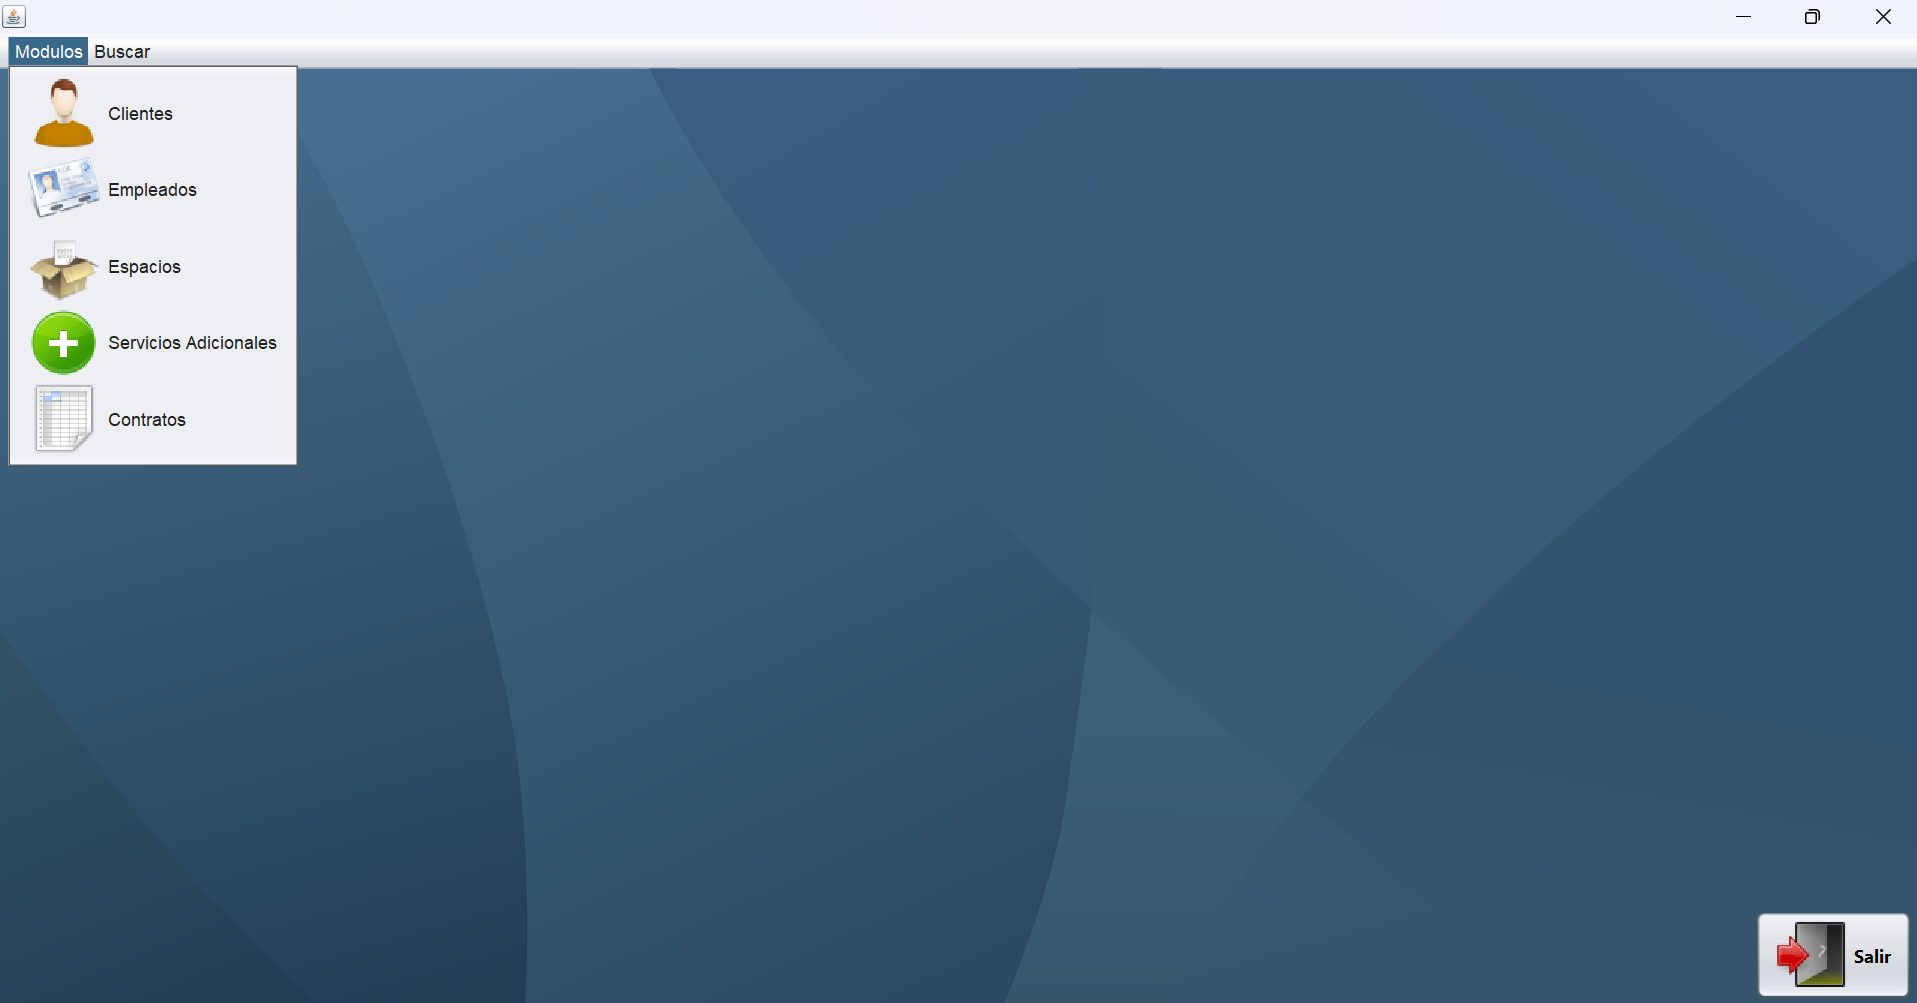
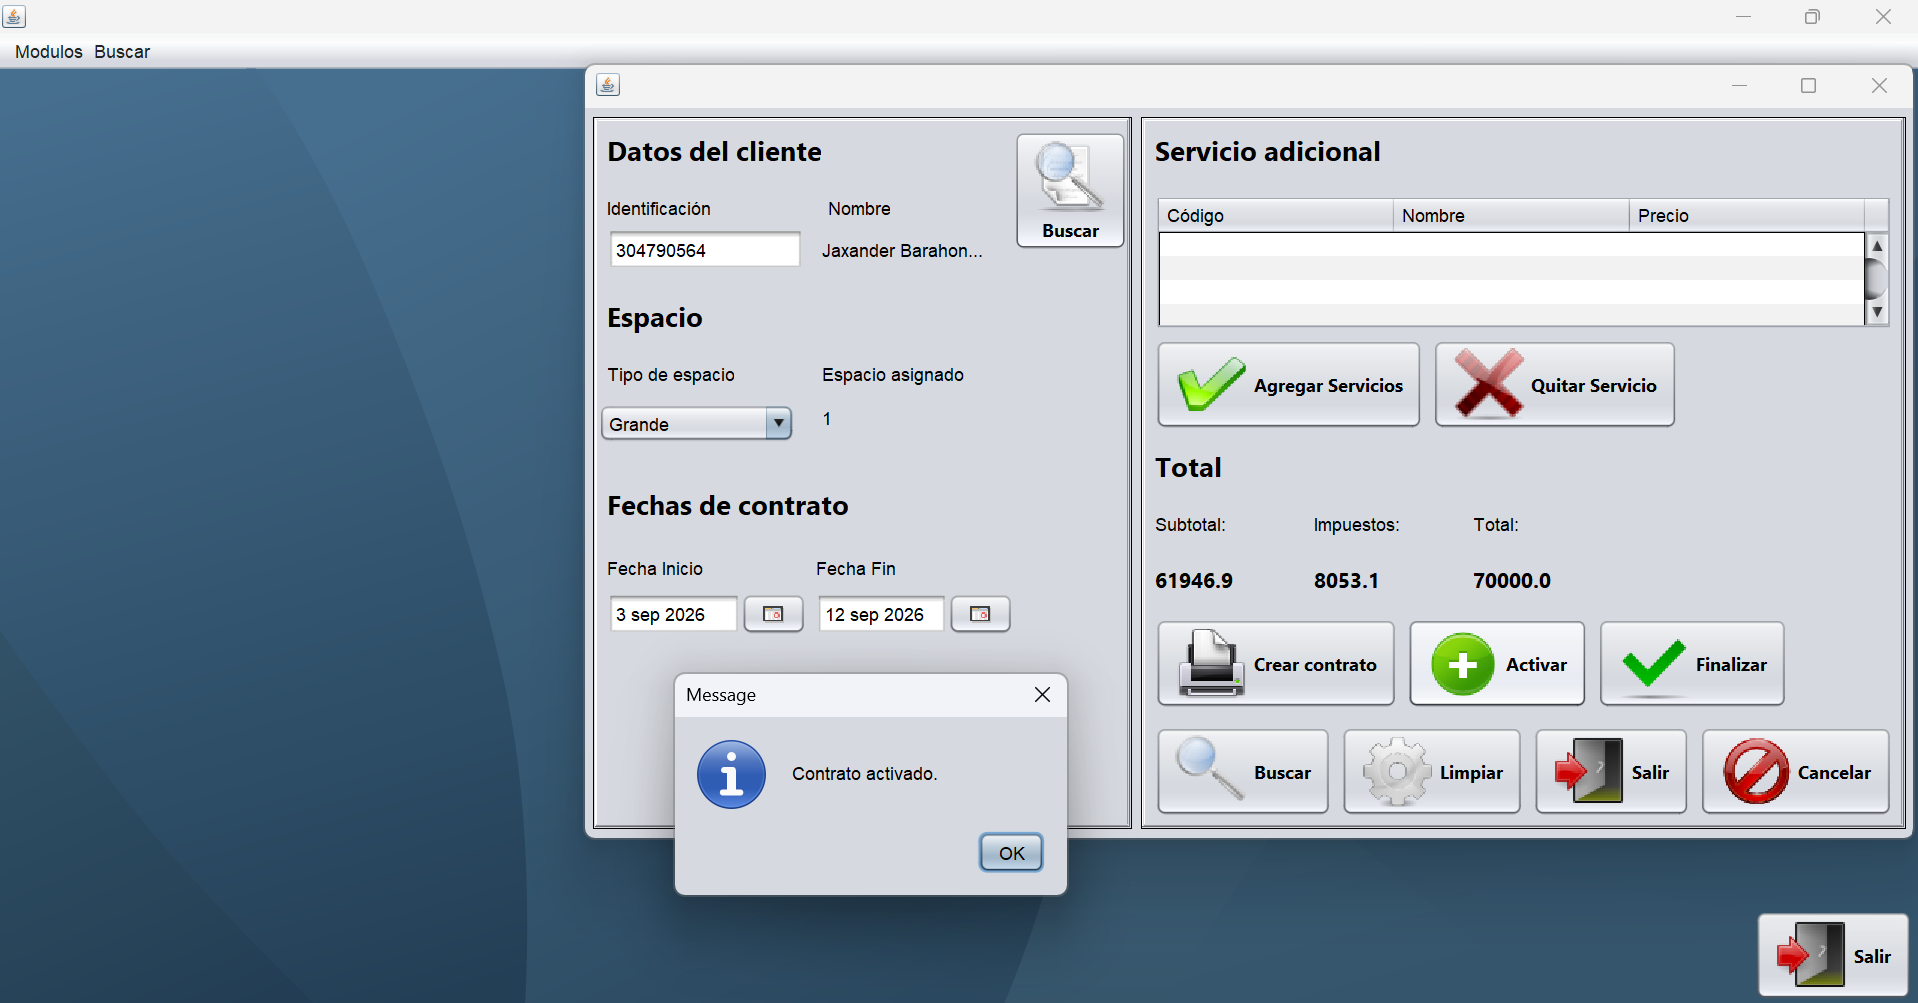
Se cambiaron a mejores imagenes y se agregaron los ultimos detalles

diff --git a/index.html b/index.html
@@ -130,7 +130,7 @@
             <div class="proyecto">
 
                 <div class="proyecto-imagen">
-                    <img src="img/proyecto2.png" alt="Captura de la página web">
+                    <img src="img/proyecto2.png" alt="Captura del editor de documentos">
                 </div>
 
                 <div class="proyecto-contenido">
@@ -161,18 +161,18 @@
             <div class="proyecto">
 
                 <div class="proyecto-imagen">
-                    <img src="img/proyecto3.png" alt="Captura de la base de datos">
+                    <img src="img/proyecto3.png" alt="Captura de la base de datos del sistema de bicicletas compartidas">
                 </div>
 
                 <div class="proyecto-contenido">
 
-                    <h3>Base de datos</h3>
+                    <h3>Base de datos - Sistema de bicicletas compartidas</h3>
 
                     <p>
-                        Diseño y administración de una base de datos que
-                        organiza la información de un negocio, facilita
-                        consultas y agiliza la toma de decisiones con
-                        datos confiables.
+                        Diseño de una base de datos para un sistema de
+                        bicicletas compartidas (tipo ecobike): gestión de
+                        estaciones, usuarios y viajes, facilitando consultas
+                        y una operación más eficiente del servicio.
                     </p>
 
                     <p class="tecnologias">
